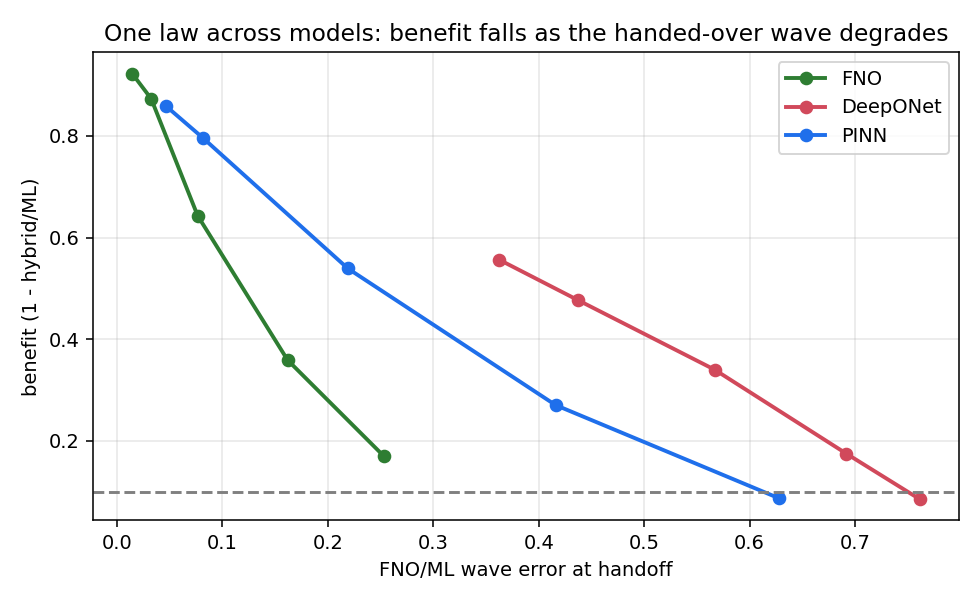
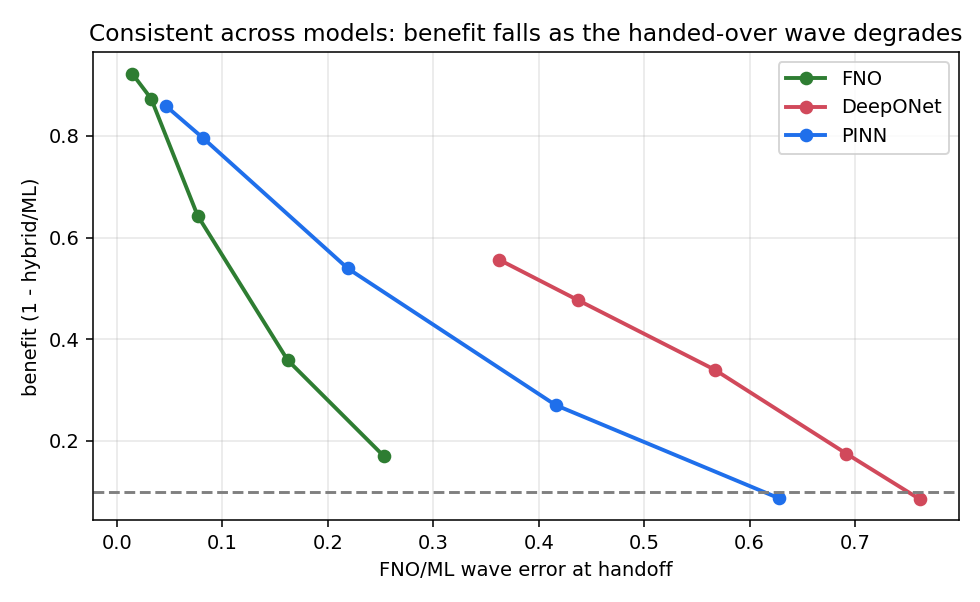
add handoff filtering ablation and cross-model transfer study

Changed region(s): [[0.0918, 0.0299, 0.9796, 0.0897]]

diff --git a/tests/test_coupling.py b/tests/test_coupling.py
@@ -1,0 +1,110 @@
+"""
+Module 2 (Coupling) - Phase 5 automated tests.
+
+Guards the handoff pipeline so a later refactor cannot silently change the
+numbers. Runs offline from results/eval/predictions.npz (no torch needed).
+
+Run from the repo root:  pytest tests/test_coupling.py -q
+"""
+import os
+import sys
+import numpy as np
+import pytest
+
+HERE = os.path.dirname(os.path.abspath(__file__))
+ROOT = os.path.dirname(HERE)
+sys.path.insert(0, os.path.join(ROOT, "hybrid_pde", "coupling - 214050V"))
+
+from restart_spectral import solve_from, nearest_index, lowpass, TGRID, NU, NX  # noqa: E402
+
+PRED = os.path.join(ROOT, "results", "eval", "predictions.npz")
+
+
+def _rl2(a, b):
+    return float(np.linalg.norm(a - b) / (np.linalg.norm(b) + 1e-15))
+
+
+@pytest.fixture(scope="module")
+def data():
+    d = np.load(PRED)
+    return {
+        "t": d["t"],
+        "true": d["u_true_eval"].astype(np.float64),
+        "FNO": d["FNO_eval"].astype(np.float64),
+        "DeepONet": d["DeepONet_eval"].astype(np.float64),
+        "PINN": d["PINN"].astype(np.float64),
+    }
+
+
+# 1. Restart consistency: from a TRUE state, reproduce the reference tail.
+def test_restart_consistency(data):
+    i = nearest_index(1.4)
+    tail = solve_from(data["true"][:, i], i)
+    ref = data["true"][:, i:]
+    max_err = max(_rl2(tail[j], ref[j]) for j in range(tail.shape[0]))
+    assert max_err < 5e-3, f"restart tail error too large: {max_err:.2e}"
+
+
+# 2. Zero handoff mismatch: first numerical state == handed-over state.
+def test_zero_handoff_mismatch(data):
+    i = nearest_index(1.2)
+    handed = data["FNO"][:, i]
+    tail = solve_from(handed, i)
+    assert np.allclose(tail[:, 0], handed, atol=1e-10)
+
+
+# 3. Time-grid alignment and shape: hybrid matches the reference exactly.
+def test_time_grid_and_shape(data):
+    i = nearest_index(1.0)
+    tail = solve_from(data["FNO"][:, i], i)
+    hybrid = np.concatenate([data["FNO"][:, :i], tail], axis=1)
+    assert hybrid.shape == data["true"].shape
+    assert np.allclose(data["t"], TGRID)
+    # no duplicated / missing switch point
+    assert tail.shape[1] == data["true"].shape[1] - i
+
+
+# 4. No ground-truth leakage: the real hybrid must NOT equal the true-state
+#    upper bound, and the handed state must differ from truth.
+def test_no_ground_truth_leakage(data):
+    i = nearest_index(1.4)
+    hybrid = solve_from(data["FNO"][:, i], i)
+    upper_bound = solve_from(data["true"][:, i], i)
+    assert not np.allclose(hybrid, upper_bound, atol=1e-6)
+    assert _rl2(data["FNO"][0, i], data["true"][0, i]) > 1e-3
+
+
+# 5. Determinism: same restart twice -> identical arrays.
+def test_determinism(data):
+    i = nearest_index(1.4)
+    a = solve_from(data["FNO"][:, i], i)
+    b = solve_from(data["FNO"][:, i], i)
+    assert np.allclose(a, b)
+
+
+# 6. Model-agnostic interface: same call for FNO, DeepONet, PINN.
+@pytest.mark.parametrize("model", ["FNO", "DeepONet", "PINN"])
+def test_model_agnostic(data, model):
+    i = nearest_index(1.0)
+    tail = solve_from(data[model][:, i], i)
+    assert tail.shape[0] == data[model].shape[0]
+    assert tail.shape[-1] == NX
+    assert np.isfinite(tail).all()
+
+
+# 7. Filtering: raw (frac=1) is identity; a real filter removes the high band.
+def test_filtering(data):
+    u = data["FNO"][:, nearest_index(1.0)]
+    assert np.allclose(lowpass(u, 1.0), u)            # raw default = identity
+    filt = lowpass(u, 0.5)
+    cut = int(0.5 * (NX // 3))
+    uh = np.fft.rfft(filt, axis=-1)
+    assert np.allclose(uh[..., cut + 1:], 0.0)        # band above cutoff removed
+
+
+# 8. Contract: viscosity, shape, finiteness.
+def test_contract(data):
+    assert np.isclose(NU, 1.0 / (100.0 * np.pi))
+    st = data["FNO"][0, nearest_index(1.0)]
+    assert st.shape == (NX,)
+    assert np.isfinite(st).all()

diff --git a/hybrid_pde/coupling - 214050V/transfer_models.py b/hybrid_pde/coupling - 214050V/transfer_models.py
@@ -54,7 +54,7 @@ def make_fig():
         ax.plot(xs, ys, "o-", color=col[name], lw=2, label=name)
     ax.axhline(0.10, ls="--", color="grey")
     ax.set(xlabel="FNO/ML wave error at handoff", ylabel="benefit (1 - hybrid/ML)",
-           title="One law across models: benefit falls as the handed-over wave degrades")
+           title="Consistent across models: benefit falls as the handed-over wave degrades")
     ax.legend(); ax.grid(alpha=0.3); fig.tight_layout()
     fig.savefig(os.path.join(FIG,"fig7_transfer_benefit_vs_stateerror.png"), dpi=140)
     print("wrote fig7")

diff --git a/hybrid_pde/coupling - 214050V/restart_spectral.py b/hybrid_pde/coupling - 214050V/restart_spectral.py
@@ -76,3 +76,14 @@ def solve_full(u0, nu=NU):
 
 def nearest_index(t_s):
     return int(np.argmin(np.abs(TGRID - t_s)))
+
+
+def lowpass(u, frac):
+    """Keep a fraction `frac` of the resolved Fourier band (frac>=1 => identity)."""
+    u = np.asarray(u, dtype=np.float64)
+    if frac >= 1.0:
+        return u.copy()
+    cut = int(frac * (NX // 3))
+    uh = np.fft.rfft(u, axis=-1)
+    uh[..., cut + 1:] = 0.0
+    return np.fft.irfft(uh, n=NX, axis=-1)
